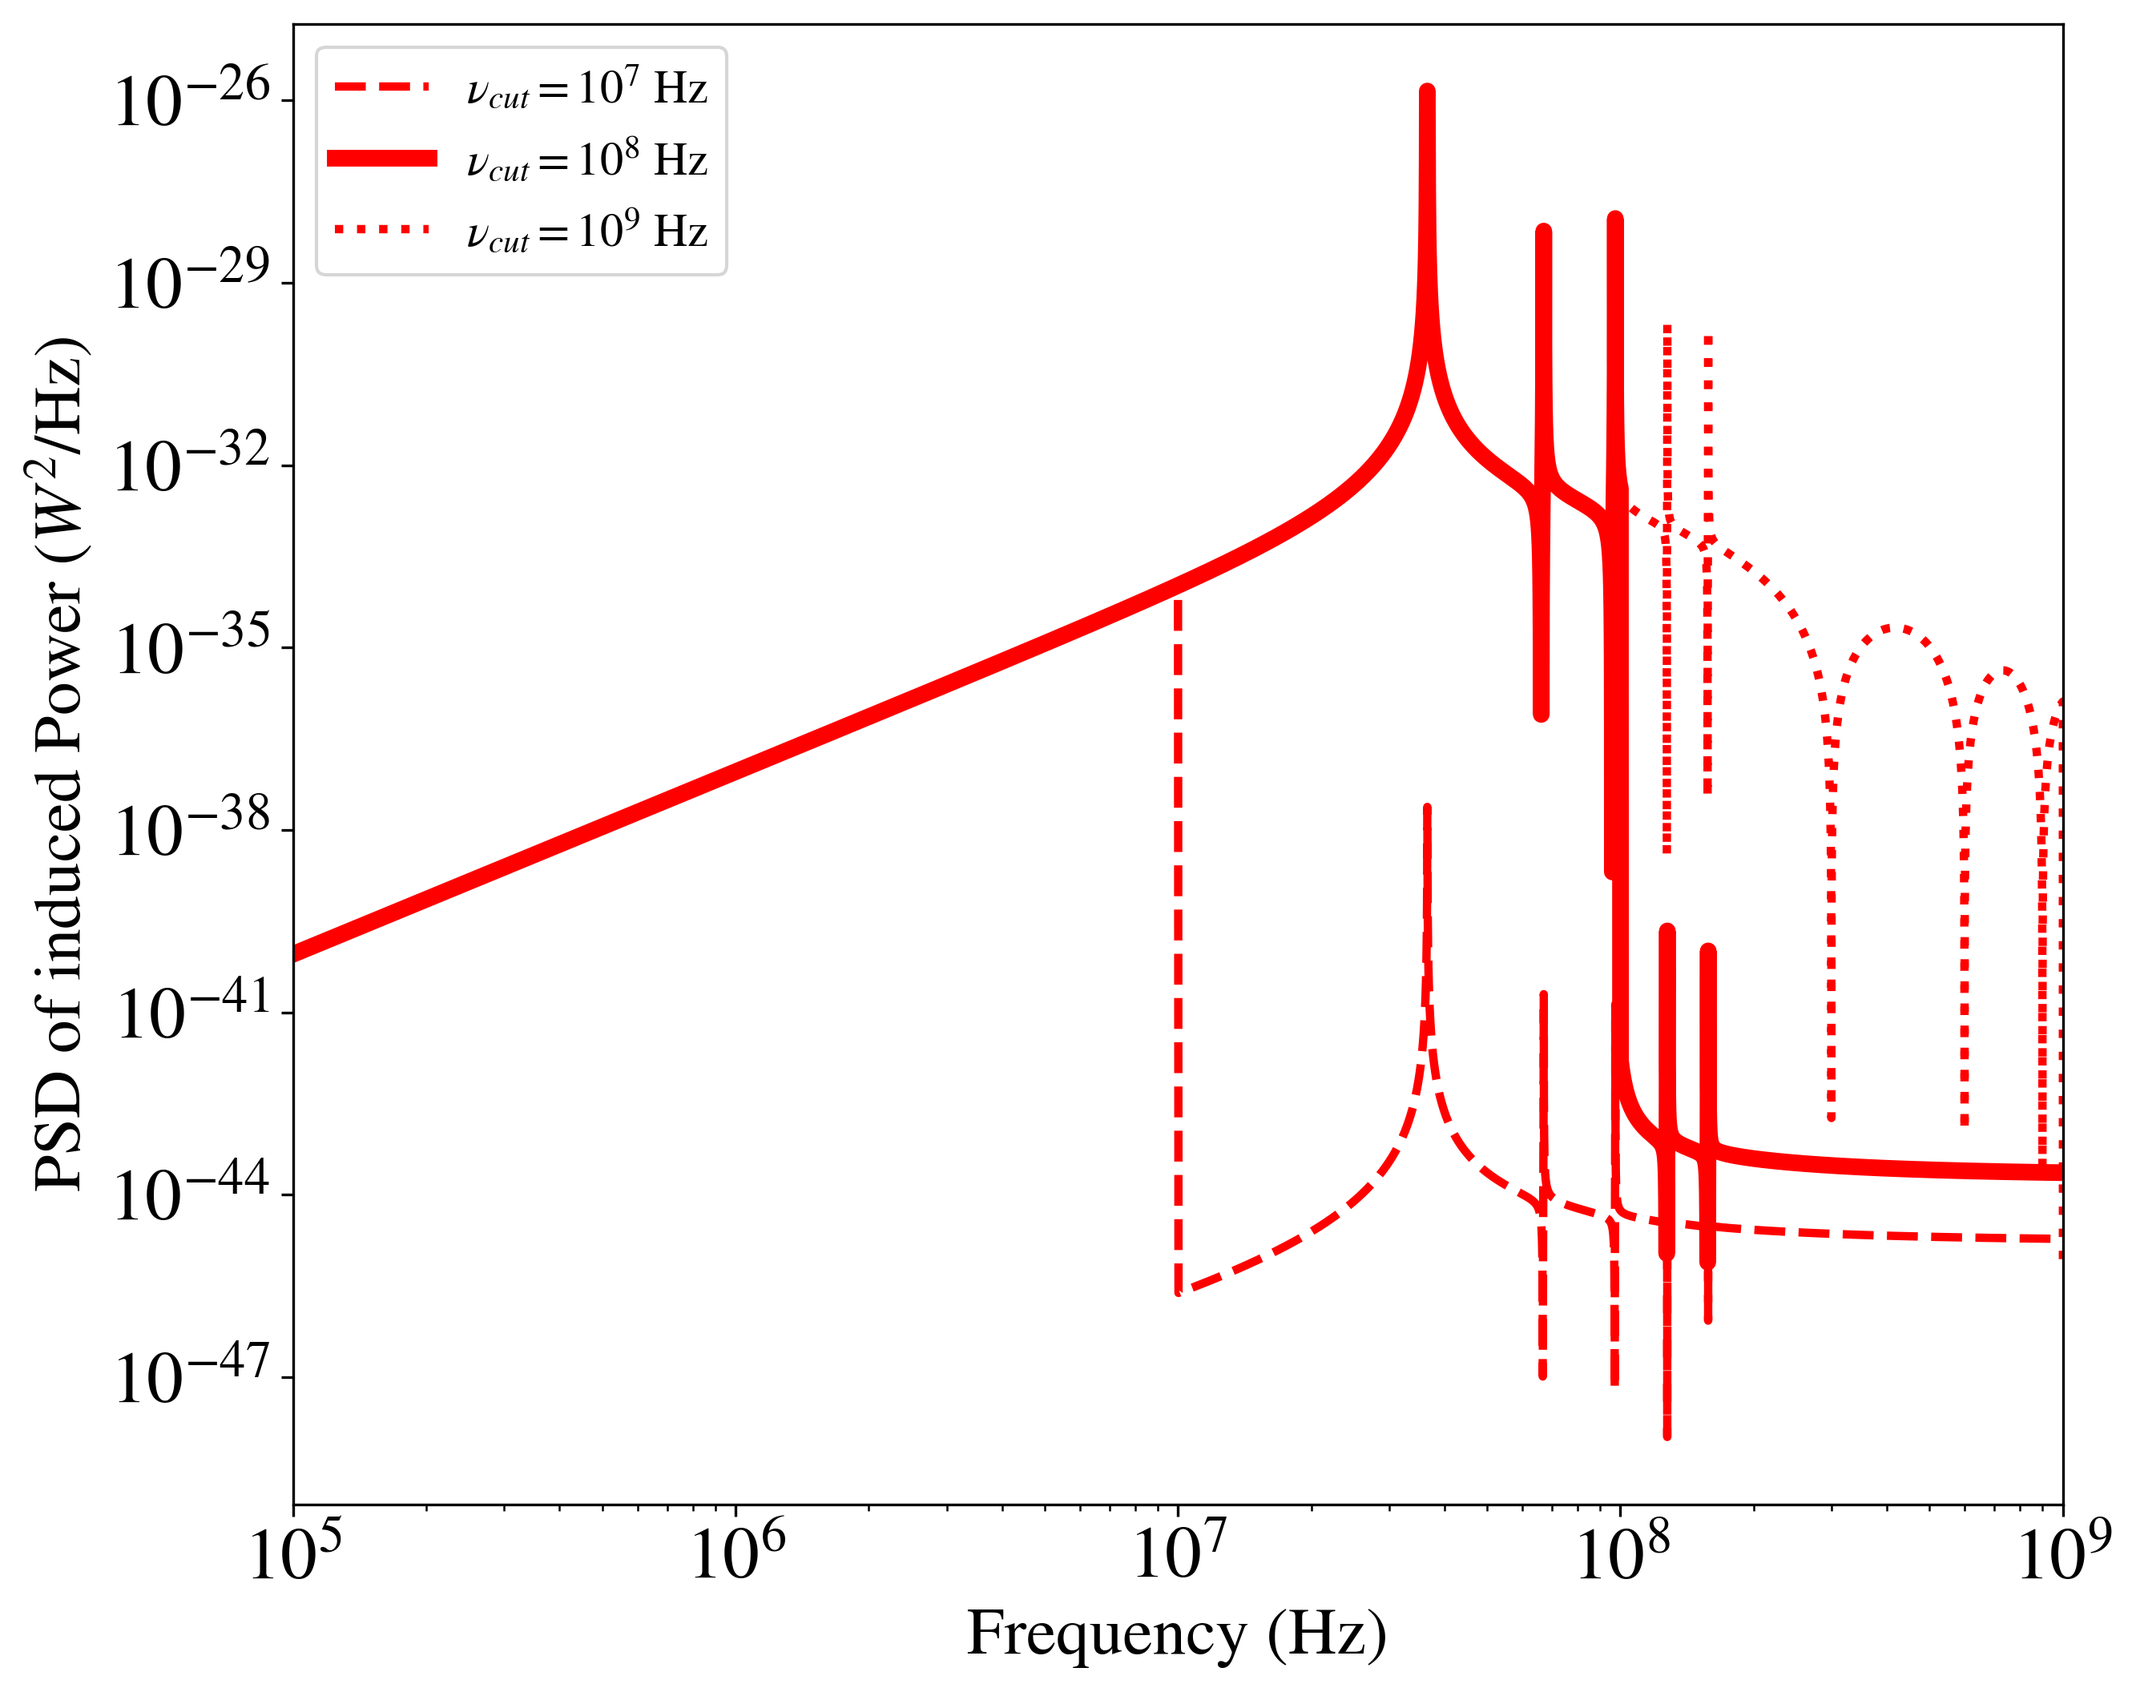
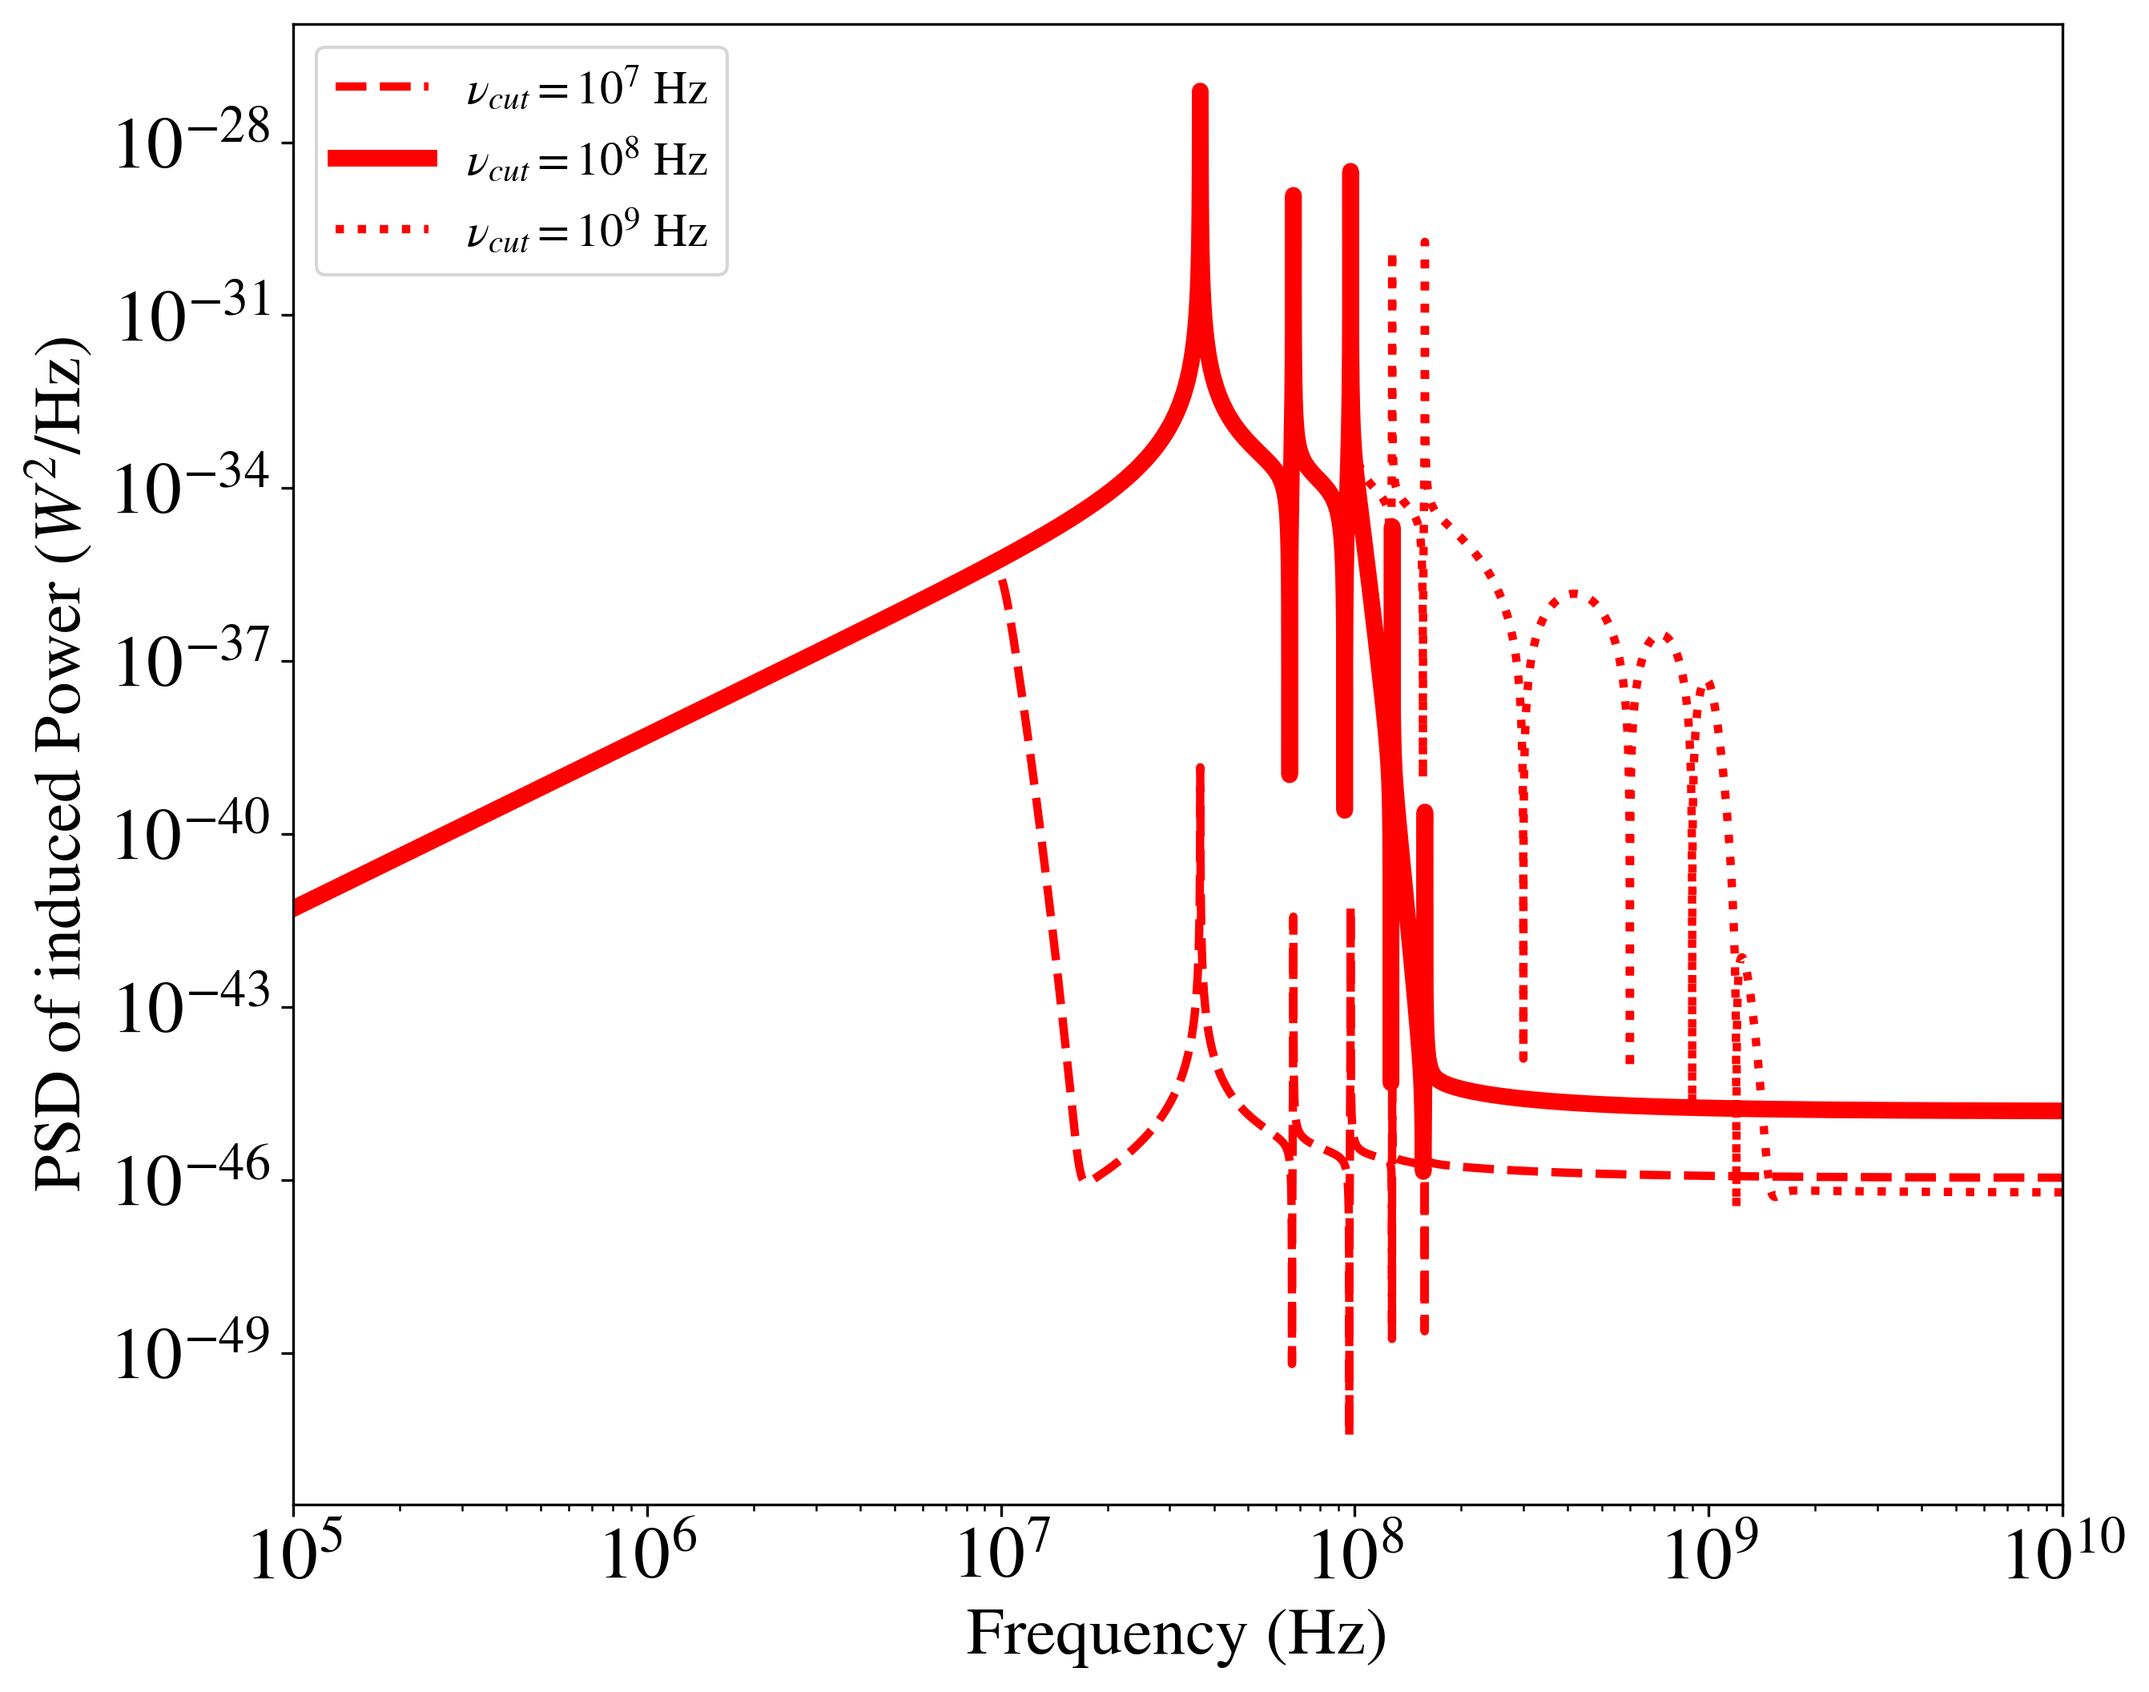
JNJNJN

diff --git a/cavities.py b/cavities.py
@@ -67,11 +67,11 @@ def cav_parameters(cavity,K,l,Rmax,Rmin=0.1):
         Ik=(Ak-Ak*jv(0,alpha_k*Rmax)-yv(0,alpha_k*Rmax))/alpha_k-(Ak-Ak*jv(0,alpha_k*Rmin)-yv(0,alpha_k*Rmin))/alpha_k
         norm=np.empty(5)
         for i in range(len(alpha_k)):
-            tmp1=0.5*((-Ak[i]**2+1)*hyp1f2(0.5,1,2,convert(str(-alpha_k[i]**2*Rmin**2)[1:-1]))-2/sqrt(pi)*meijerg([[],[-0.5,0.5]],[[-1,0,0],[-0.5]],convert(str(alpha_k[i]*Rmin)[1:-1]),0.5)-2*Ak[i]*jv(0,alpha_k[i]*Rmin)*yv(0,alpha_k[i]*Rmin)-2*Ak[i]*jv(1,alpha_k[i]*Rmin)*yv(1,alpha_k[i]*Rmin)+Ak[i]**2+1)
+            tmp1=0.5*(-(Ak[i]**2+1)*hyp1f2(0.5,1,2,convert(str(-alpha_k[i]**2*Rmin**2)[1:-1]))-2/sqrt(pi)*meijerg([[],[-0.5,0.5]],[[-1,0,0],[-0.5]],convert(str(alpha_k[i]*Rmin)[1:-1]),0.5)-2*Ak[i]*jv(0,alpha_k[i]*Rmin)*yv(0,alpha_k[i]*Rmin)-2*Ak[i]*jv(1,alpha_k[i]*Rmin)*yv(1,alpha_k[i]*Rmin)+Ak[i]**2+1)
             #tmp1=1/2*Rmin**2*(2*Ak[i]/sqrt(pi)*meijerg([[0,0.5],[-0.5]],[[0,1],[-1,-1,-0.5]],convert(str(alpha_k[i]*Rmin)[1:-1]),0.5)+Ak[i]**2*(jv(1,alpha_k[i]*Rmin)**2-jv(0,alpha_k[i]*Rmin)*jv(2,alpha_k[i]*Rmin))+yv(1,alpha_k[i]*Rmin)**2-yv(0,alpha_k[i]*Rmin)*yv(2,alpha_k[i]*Rmin))
             #tmp2=1/2*Rmax**2*(2*Ak[i]/sqrt(pi)*meijerg([[0,0.5],[-0.5]],[[0,1],[-1,-1,-0.5]],convert(str(alpha_k[i]*Rmax)[1:-1]),0.5)+Ak[i]**2*(jv(1,alpha_k[i]*Rmax)**2-jv(0,alpha_k[i]*Rmax)*jv(2,alpha_k[i]*Rmax))+yv(1,alpha_k[i]*Rmax)**2-yv(0,alpha_k[i]*Rmax)*yv(2,alpha_k[i]*Rmax))
-            tmp2=0.5*((-Ak[i]**2+1)*hyp1f2(0.5,1,2,convert(str(-alpha_k[i]**2*Rmax**2)[1:-1]))-2/sqrt(pi)*meijerg([[],[-0.5,0.5]],[[-1,0,0],[-0.5]],convert(str(alpha_k[i]*Rmax)[1:-1]),0.5)-2*Ak[i]*jv(0,alpha_k[i]*Rmax)*yv(0,alpha_k[i]*Rmax)-2*Ak[i]*jv(1,alpha_k[i]*Rmax)*yv(1,alpha_k[i]*Rmax)+Ak[i]**2+1)
-            norm[i]=sqrt(tmp2-tmp1*l/2*pi)
+            tmp2=0.5*(-(Ak[i]**2+1)*hyp1f2(0.5,1,2,convert(str(-alpha_k[i]**2*Rmax**2)[1:-1]))-2/sqrt(pi)*meijerg([[],[-0.5,0.5]],[[-1,0,0],[-0.5]],convert(str(alpha_k[i]*Rmax)[1:-1]),0.5)-2*Ak[i]*jv(0,alpha_k[i]*Rmax)*yv(0,alpha_k[i]*Rmax)-2*Ak[i]*jv(1,alpha_k[i]*Rmax)*yv(1,alpha_k[i]*Rmax)+Ak[i]**2+1)
+            norm[i]=sqrt((tmp2-tmp1)*l/2*pi)
         #norm=1/sqrt(2/l/pi/alpha_k**2/(Ak**2*(jv(0,alpha_k*Rmax)**2)+(yv(0,alpha_k*Rmax)**2)))#-(Ak*jv(0,alpha_k*Rmin)+yv(0,alpha_k*Rmin))**2))
     return alpha_k.flatten(),Ik.flatten(),norm.flatten()
 
@@ -128,7 +128,7 @@ def time_approach(hp,t,cavity,Rmax,K=5,l=1,B0=5):
     return rmsP_t,dP_t
 
 
-def freq_appoach(TFhp,omega,cavity,Rmax,recomp,K=5,l=1,B0=5):
+def freq_appoach(TFhp,omega,cavity,Rmax,recomp=0,K=5,l=1,B0=5):
     alphak,Ik,norm=cav_parameters(cavity,K,l,Rmax)
     deltaF=1/2/pi*(omega[1]-omega[0])
     if (omega[-1]<alphak[-1]*c):
@@ -245,6 +245,9 @@ def Sh_ph(f):
     rep[f<= fcut4]=0
     return sqrt(rep/2)
 
+def sigmoid(x,fcut):
+    return 0.5+0.5*np.tanh((fcut-x)/fcut*20)
+
 def Sh_toy(f,omegaGW,fcut):
     omegaGW=1e-10
     H0=70/1e3/PC_SI
@@ -269,6 +272,32 @@ def Sh_toyff2(f,omegaGW,fcut):
     omegaGW=1e-10/1e7*f**2
     H0=70/1e3/PC_SI
     Sf=3*H0**2/4/pi**2/f**3*omegaGW*heaviside(-f+fcut,0.5)
+    return sqrt(Sf/2)
+
+def SSh_toy(f,omegaGW,fcut):
+    omegaGW=1e-10
+    H0=70/1e3/PC_SI
+    Sf=3*H0**2/4/pi**2/f**3*omegaGW*sigmoid(f,fcut)
+    return sqrt(Sf/2)
+def SSh_toyfm1(f,omegaGW,fcut):
+    omegaGW=1e-10*1e7/f
+    H0=70/1e3/PC_SI
+    Sf=3*H0**2/4/pi**2/f**3*omegaGW*sigmoid(f,fcut)
+    return sqrt(Sf/2)
+def SSh_toyff1(f,omegaGW,fcut):
+    omegaGW=1e-10/1e7*f
+    H0=70/1e3/PC_SI
+    Sf=3*H0**2/4/pi**2/f**3*omegaGW*sigmoid(f,fcut)
+    return sqrt(Sf/2)
+def SSh_toyfm2(f,omegaGW,fcut):
+    omegaGW=1e-10*1e7/f**2
+    H0=70/1e3/PC_SI
+    Sf=3*H0**2/4/pi**2/f**3*omegaGW*sigmoid(f,fcut)
+    return sqrt(Sf/2)
+def SSh_toyff2(f,omegaGW,fcut):
+    omegaGW=1e-10/1e7*f**2
+    H0=70/1e3/PC_SI
+    Sf=3*H0**2/4/pi**2/f**3*omegaGW*sigmoid(f,fcut)
     return sqrt(Sf/2)
 
 def get_sgwbs(freq):

diff --git a/bode.py b/bode.py
@@ -32,23 +32,24 @@ K=5
 alphak,Ik,normk=cav_parameters(cavity,K,l,Rmax)
 
 fplot=np.linspace(1e5,1e9,2000000)
-plt.loglog(fplot,fct_bode(fplot,cavity,Rmax),'b')
+plt.loglog(fplot,fct_bode(fplot,cavity,Rmax),'b',label='TM')
 plt.xlim(1e5,1e9)
-plt.xlabel('Frequency (Hz)')
-plt.ylabel('$P_{RIR}$ (W)')
-plt.savefig("bodeTM.png")
+# plt.xlabel('Frequency (Hz)')
+# plt.ylabel('$P_{RIR}$ (W)')
+# plt.savefig("bodeTM.png")
 cavity='TEM'
-plt.figure()
-print(fct_bode(fplot,cavity,Rmax))
-plt.loglog(fplot,fct_bode(fplot,cavity,Rmax),'b')
+#plt.figure()
+#print(fct_bode(fplot,cavity,Rmax))
+plt.loglog(fplot,fct_bode(fplot,cavity,Rmax),'r',label='TEM')
 plt.xlim(1e5,1e9)
 plt.xlabel('Frequency (Hz)')
 plt.ylabel('$P_{RIR}$ (W)')
-plt.savefig("bodeTEM.png")
+plt.legend()
+plt.savefig("bodeTETEM.png")
 
 plt.figure()
 prmslim=1e-14
-plt.loglog(fplot,sqrt(fplot)*Sh_toy(fplot,1e-10,1e8),'b',label='stochastic sources')
+plt.loglog(fplot,sqrt(fplot)*SSh_toy(fplot,1e-10,1e8),'b',label='stochastic sources')
 chirp=[]
 for i in range(len(fplot)):
         chirp.append(fchirp(fplot[i],2200/fplot[i]))
@@ -65,7 +66,7 @@ x_scale = 9.5 * 0.78 / (rng[1] - rng[0])
 y_scale = 8 * 0.80 / (rng[3] - rng[2])  
 # angle= np.degrees(np.arctan2((np.log(prmslim/fct_bode(fplot[1],cavity,Rmax))-np.log(prmslim/fct_bode(fplot[0],cavity,Rmax))),np.log(fplot[1])-np.log(fplot[0])))
 # print(angle)
-l=np.array([4e5,1e-30])
+l=np.array([4e5,5e-30])
 # transangle=plt.gca().transData.transform_angles(np.array((angle,)),l.reshape((1, 2)))[0]
 # print(transangle)
 plt.annotate("Detectable strain at $\mathbf{10^{-14}}$ W ",l,rotation=-61.5/1.75, fontweight='bold',fontsize=18)
@@ -74,8 +75,16 @@ ell=Ellipse((9e7,1e-33),1.5e8,1e-30,alpha=0.35,color='gold')
 ax=plt.gca()
 ax.add_artist(ell)
 l=np.array([1.5e6,1e-33])
+plt.ylim(1e-38,1e-24)
 plt.annotate("Resonant modes",l,color='goldenrod',fontweight='bold',fontsize=18)
 plt.savefig("detlim.png")
+plt.figure()
+plt.loglog(fplot,sqrt(fplot)*SSh_toy(fplot,1e-10,1e8),'b')
+plt.xlabel('Frequency (Hz)')
+plt.ylabel('Characteristic Strain')
+plt.xlim(1e5,1e9)
+plt.ylim(1e-33,1e-28)
+plt.savefig("toymodel.png")
 
 
 # Masse = np.linspace(2,8,50); Masse = 10**(-1*Masse)

diff --git a/sgwb.py b/sgwb.py
@@ -1,4 +1,4 @@
-from cavities import Sh_toy, Sh_toyff1, Sh_toyfm1,RMS_compute,freq_appoach
+from cavities import Sh_toy, Sh_toyff1, Sh_toyfm1,RMS_compute,freq_appoach,SSh_toy,SSh_toyff1,SSh_toyfm1
 import matplotlib.pyplot as plt
 from numpy import pi,linspace,sqrt
 from scipy.stats import linregress
@@ -39,14 +39,14 @@ fcutarr=[1e7,1e8,1e9]
 psdarr=[]
 
 for fcut in fcutarr:
-     test=sqrt(2)*Sh_toy(freq,omegaGW,fcut)
-     rmsP_f,TFdP_f_p,dP_f,tdE_f=freq_appoach(test,omega,cavity,Rmax)
+     test=sqrt(2)*SSh_toy(freq,omegaGW,fcut)
+     rmsP_f,TFdP_f_p,omega,dP_f,tdE_f=freq_appoach(test,omega,cavity,Rmax)
      psdarr.append(abs(TFdP_f_p)**2)
 #plt.loglog(freq,abs(TFdP_f_p)**2,'b')
 plt.loglog(freq,psdarr[0],'--r',label=r'$\nu_{cut}=10^7$ Hz')
 plt.loglog(freq,psdarr[1],'r',linewidth=5,label=r'$\nu_{cut}=10^8$ Hz')
 plt.loglog(freq,psdarr[2],':r',label=r'$\nu_{cut}=10^9$ Hz')
-plt.xlim(1e5,1e9)
+plt.xlim(1e5,1e10)
 plt.xlabel('Frequency (Hz)')
 plt.ylabel('PSD of induced Power ($W^2$/Hz)')
 plt.legend(loc=2)
@@ -93,9 +93,9 @@ for r in range(len(rmaxarr)):
      print(r)
      l = 1.0  ;rmax = rmaxarr[r] ; rmin = 0.1 #m
      Rmax=rmax/l ; Rmin=rmin/l
-     RMS_toy.append(RMS_compute(Sh_toy,fmin,fmax,cavity,Rmax,omegaGW,fcut))
-     RMS_toy2.append(RMS_compute(Sh_toyfm1,fmin,fmax,cavity,Rmax,omegaGW,fcut))
-     RMS_toy3.append(RMS_compute(Sh_toyff1,fmin,fmax,cavity,Rmax,omegaGW,fcut))
+     RMS_toy.append(RMS_compute(SSh_toy,fmin,fmax,cavity,Rmax,omegaGW,fcut))
+     RMS_toy2.append(RMS_compute(SSh_toyfm1,fmin,fmax,cavity,Rmax,omegaGW,fcut))
+     RMS_toy3.append(RMS_compute(SSh_toyff1,fmin,fmax,cavity,Rmax,omegaGW,fcut))
      #RMS_toy4.append(RMS_compute(Sh_toyfm2,fmin,fmax,cavity,Rmax,omegaGW,fcut))
      #RMS_toy5.append(RMS_compute(Sh_toyff2,fmin,fmax,cavity,Rmax,omegaGW,fcut))
 #     RMS_pt.append(RMS_compute(Sh_pt,fmin,fmax,cavity,Rmax))

diff --git a/plot_mass.py b/plot_mass.py
@@ -26,10 +26,9 @@ Y=loadtxt('simMass.txt')
 fig=plt.figure()
 ax=plt.gca()
 #Y=Y*4.640850738526967e-26*72511535.92617007*2*pi*5
-plt.loglog(M,Y[:,0],'b',)
-
-plt.loglog(M,Y[:,1],'r')
-plt.loglog(M,Y[:,2],'g')
+plt.loglog(M,Y[:,0],'b',label="time domain")
+plt.loglog(M,Y[:,1],'r',label="frequency domain")
+plt.loglog(M,Y[:,2],'g',label="RMS power integral estimation")
 # plt.fill_between(M,Y[1,:],Y[2,:],'b',alpha=0.35)
 plt.axis([1e-8,1e-3,1e-17,1e-9])
 xt=10.**arange(-8,-2)
@@ -39,11 +38,23 @@ ax.set_box_aspect(1)
 plt.xlabel(r"Mass ($M_\odot$)")
 plt.ylabel(r"RMS Induced Power (W)")
 plt.title(r'\textbf{TM Cavity}')
+plt.legend()
 plt.savefig("pbhmass.png")
 
+nii=loadtxt('niikura.csv')
 plt.figure()
+ax=plt.gca()
 test=(1e-14*4.2*M**(0.29)/Y[:,2]/1000)**(3/2)
 test2=(1e-14*58/Y[:,2]/1000)**(3/2)
-plt.loglog(M,test)
-plt.loglog(M,test2)
-plt.show()
+plt.loglog(M,test,label='Primordial binaries')
+plt.fill_between(M,test,y2=1e1,alpha=0.3)
+plt.loglog(M,test2,label='Tidal capture in clusters')
+plt.fill_between(M,test2,y2=1e1,alpha=0.5)
+plt.loglog(nii[:,0],nii[:,1],marker='.',alpha=0.7,label="OGLE+Gaia: Niikura 19'")
+plt.ylim(1e-12,1)
+plt.xlim(1e-8,1e-3)
+ax.set_box_aspect(1)
+plt.ylabel(r"$\tilde{f}_{\rm PBH}$")
+plt.xlabel(r"Mass ($M_\odot$)")
+plt.legend()
+plt.savefig("niikura.png")
